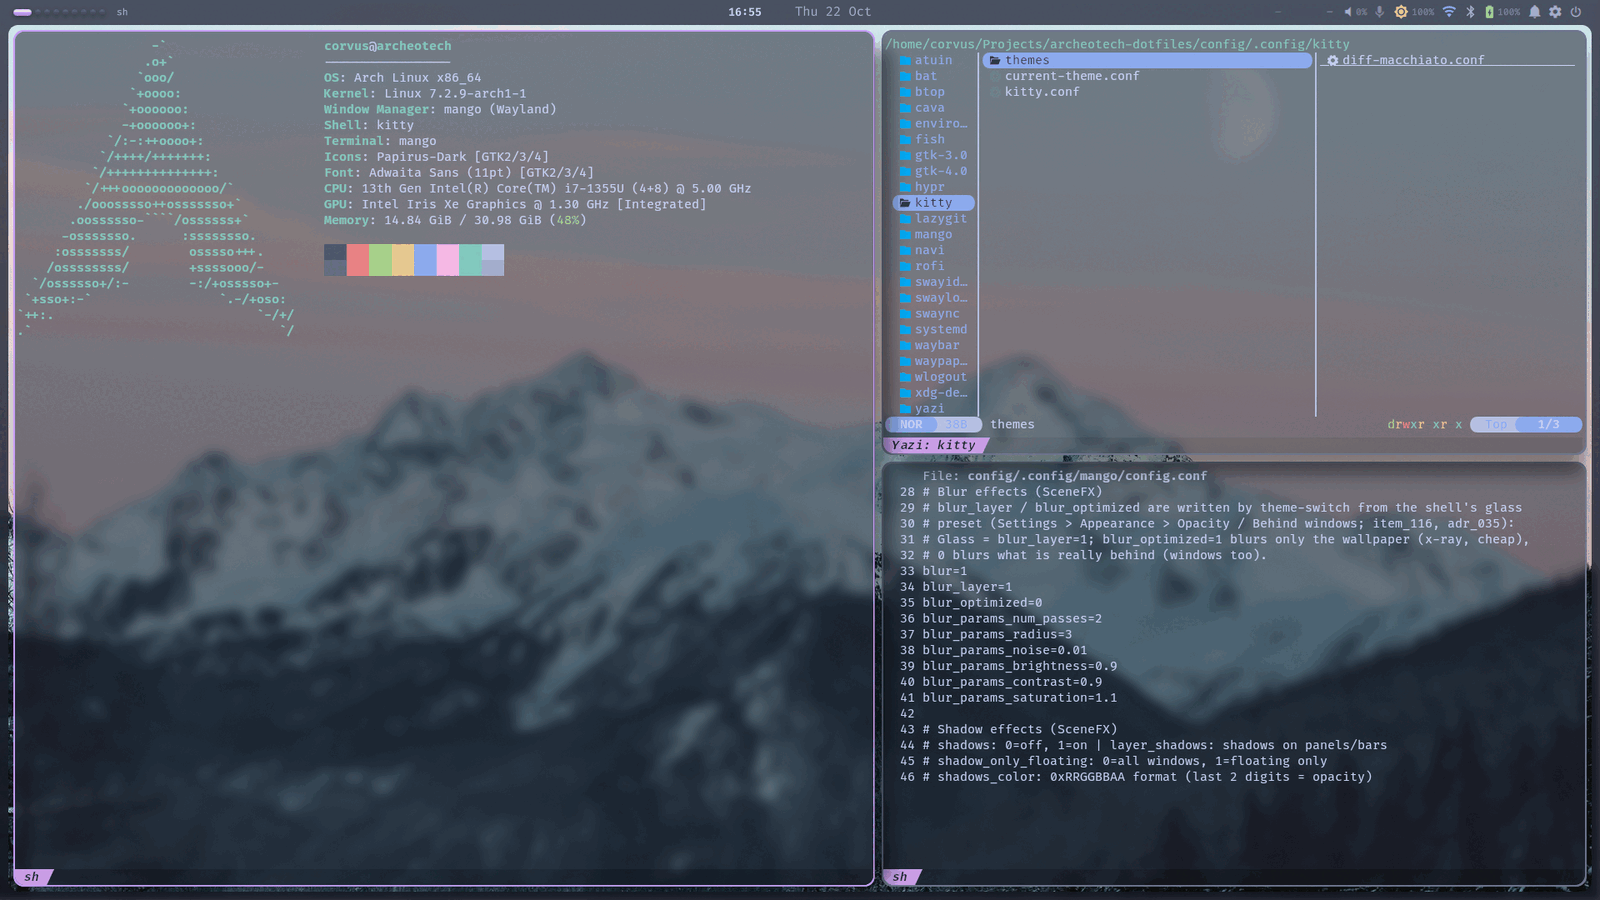
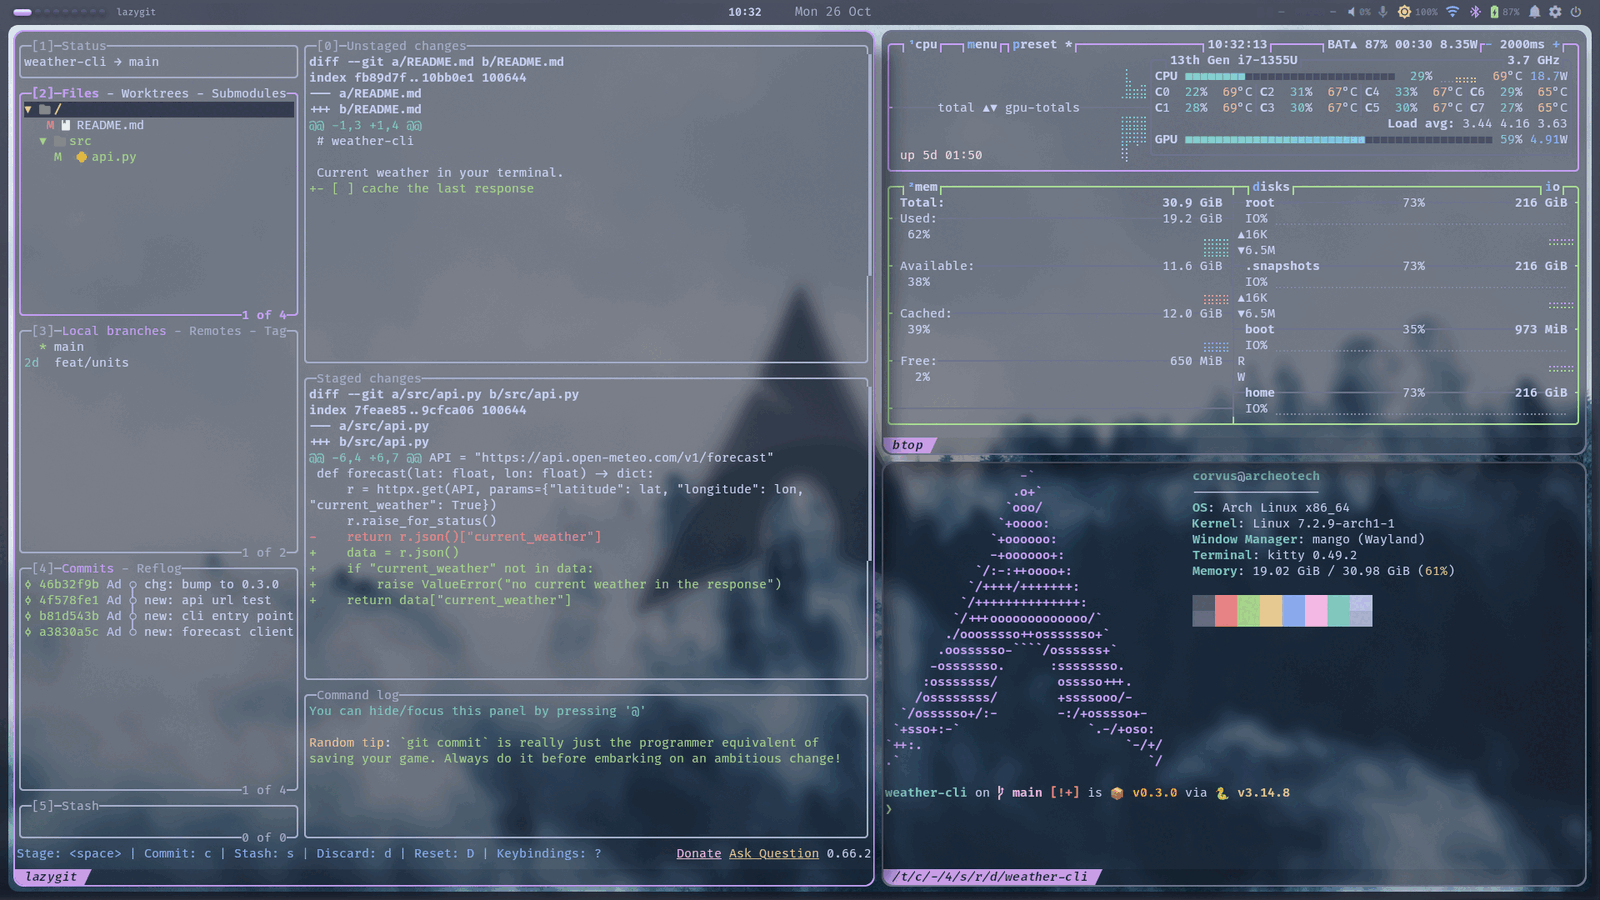
chg[MD/PNG]: README in the rice style; terminal workbench screenshot

diff --git a/README.md b/README.md
@@ -2,71 +2,44 @@
 
 <img src="docs/img/header.svg" alt="Archeotech dotfiles" width="620">
 
-### An Arch Linux desktop on MangoWC, in one repo. Clone it, run one script, get the same machine back.
+My Arch Linux + MangoWC setup, running the [Archeotech shell](https://github.com/Nicolas-Rigaudy/archeotech-shell).
 
-![Arch Linux](https://img.shields.io/badge/Arch%20Linux-1793d1?logo=archlinux&logoColor=white)
-![MangoWC and Hyprland](https://img.shields.io/badge/compositor-MangoWC%20%C2%B7%20Hyprland-7dc4e4)
-![GNU Stow](https://img.shields.io/badge/managed%20with-GNU%20Stow-c6a0f6)
-![Daily driver](https://img.shields.io/badge/status-daily%20driver-a6da95)
+[![Arch Linux](https://img.shields.io/badge/arch-linux-8aadf4?style=for-the-badge&logo=archlinux&logoColor=cad3f5&labelColor=24273a)](https://archlinux.org)
+[![MangoWC](https://img.shields.io/badge/wm-mangowc-7dc4e4?style=for-the-badge&labelColor=24273a)](https://github.com/DreamMaoMao/mangowc)
+[![GNU Stow](https://img.shields.io/badge/managed%20with-stow-a6da95?style=for-the-badge&labelColor=24273a)](https://www.gnu.org/software/stow/)
 
-<img src="docs/img/desktop.png" alt="MangoWC with kitty, yazi and fastfetch under the Archeotech shell" width="900">
-
-<sub>MangoWC scrolling layout with kitty, yazi and fastfetch, under the Archeotech shell. Isolated render.</sub>
+<img src="docs/img/desktop.png" alt="lazygit, btop and fish with fastfetch in kitty, tiled by MangoWC under the Archeotech shell" width="900">
 
 </div>
 
----
+> [!NOTE]
+> These are personal configs for one machine: an Intel laptop at 1920x1200 that docks at two desks, AZERTY built in, QWERTY at work.
+> Monitor names, paths and binds reflect that. The shell itself lives in [archeotech-shell](https://github.com/Nicolas-Rigaudy/archeotech-shell).
 
-These are the configs of a work laptop that docks at two desks. MangoWC tiles the windows,
-the [Archeotech shell](https://github.com/Nicolas-Rigaudy/archeotech-shell) draws the bar and panels,
-and kitty, fish, starship, rofi, GTK and the terminal tools share one Catppuccin theme.
-Every file lives in this repo. GNU Stow links it into `~/.config`. An edit is a git change.
-Hyprland stays configured as a fallback, selectable at the login screen.
+## What's inside
 
-## A day on this desktop
-
-- **Login.** SDDM offers MangoWC or Hyprland. MangoWC starts the shell, the wallpaper, clipboard history and the idle lock.
-- **Docking.** Plug in two monitors. A hotplug watcher applies the right layout, portrait screen included.
-- **Coding.** `Super+Ctrl+P` lists every git repo and opens VS Code and a terminal in the one you pick.
-- **Typing.** The laptop is AZERTY, the desk keyboard is QWERTY. `Alt+Shift` switches and the binds still work.
-- **Gaming.** One toggle turns blur, shadows and animations off for a full-screen game, and back on after.
-- **Updating.** Every pacman transaction takes a btrfs snapshot. A bad update rolls back from the boot menu.
-
-## Why it is built this way
-
-| Usual dotfiles pain | Here |
+| | Software |
 |---|---|
-| Copying files back and forth | **Stow symlinks**: the live config is the repo file |
-| A fresh install that takes a day | **`install.sh --profile full`**: packages, backup, deploy, checks |
-| A config change that breaks the session | **Isolated CI**: compositor configs are verified in a container |
-| Monitors in the wrong place after docking | **Hotplug layouts** per desk, with a wildcard for unknown screens |
-| An update that breaks boot | **Snapper + snap-pac + grub-btrfs** snapshots |
-| A theme that differs per app | **One theme switch** from the shell for kitty, rofi, fish, starship, GTK and MangoWC |
-
-## See it
-
-### Every bind, for the keyboard in use
-The shell's keyboard panel reads the MangoWC binds from this repo and labels them for the active layout.
-
-<img src="docs/img/keyboard.png" alt="The keyboard panel listing MangoWC binds" width="900">
-
-### One theme across the desktop
-The theme picked in the shell rewrites kitty, rofi, fish, starship, GTK, hyprlock and the MangoWC borders in this repo.
-
-<img src="docs/img/themes.png" alt="The shell dashboard in six themes" width="900">
-
-## What is configured
-
-| Area | Tools |
-|---|---|
-| Compositor | MangoWC (primary, scrolling layouts), Hyprland (fallback) |
-| Shell | [archeotech-shell](https://github.com/Nicolas-Rigaudy/archeotech-shell) on Quickshell; waybar, swaync and wlogout for Hyprland |
+| Compositor | [MangoWC](https://github.com/DreamMaoMao/mangowc) (scrolling layouts), Hyprland as a fallback at the login screen |
+| Shell | [archeotech-shell](https://github.com/Nicolas-Rigaudy/archeotech-shell) on Quickshell; waybar, swaync and wlogout under Hyprland |
 | Terminal | kitty, fish, starship, atuin, navi |
 | Terminal apps | yazi, lazygit, btop, bat, cava, zathura |
 | Desktop | rofi, swaylock, swayidle, GTK 3/4, xdg-desktop-portal |
-| System | SDDM, snapper, logid, systemd units (in `system/`) |
+| System | SDDM, snapper + snap-pac + grub-btrfs, logid, systemd units |
+| Theme | Catppuccin Macchiato by default; the shell's theme switch rewrites kitty, rofi, fish, starship, GTK and the MangoWC borders |
 
-## Get started
+A few things that make it mine:
+
+- **Docking.** A hotplug watcher applies the right monitor layout per desk, portrait screen included.
+- **Project jump.** `Super + Ctrl + P` lists every git repo and opens VS Code and a terminal in the one you pick.
+- **Two keyboards.** `Alt + Shift` switches AZERTY and QWERTY, and the binds stay on the same physical keys.
+- **Gaming mode.** `Super + Ctrl + G` turns blur, shadows and animations off, and back on.
+- **Snapshots.** Every pacman transaction takes a btrfs snapshot, bootable from GRUB.
+
+## Installation
+
+> [!WARNING]
+> Read the configs before you run this. `install.sh` backs up existing `~/.config` entries, but it replaces them.
 
 On an Arch install with `paru`:
 
@@ -77,55 +50,60 @@ cd ~/Projects/archeotech-dotfiles
 ./scripts/install.sh --profile full             # packages, then configs
 ```
 
-`install.sh` backs up any existing `~/.config` entry before it links the repo in.
-`--profile minimal` installs only the required packages. Then install the shell from
-[archeotech-shell](https://github.com/Nicolas-Rigaudy/archeotech-shell) with its own installer.
-
+`--profile minimal` installs only the required packages. Then install the shell with
+[its own installer](https://github.com/Nicolas-Rigaudy/archeotech-shell#installation).
 Starting from a blank disk? [`docs/INSTALLATION.md`](docs/INSTALLATION.md) covers the full Arch install
 with btrfs subvolumes, snapshots and both compositors.
 
-These are personal configs for one machine (an Intel laptop, 1920x1200, AZERTY). Monitor names, paths and binds
-reflect that setup. Read before you run.
+GNU Stow links `config/.config/*` into `~/.config`, so the live config is the repo file:
 
-<details>
-<summary><b>What is in the box</b></summary>
-
-| Path | What |
-|---|---|
-| `config/.config/` | the Stow package: every app config |
-| `scripts/install.sh`, `install-packages.sh` | deploy with Stow, install packages by profile |
-| `scripts/monitor-hotplug.sh`, `monitor-apply.sh` | layout per set of connected monitors |
-| `scripts/project-jump.sh` | rofi picker for git repos |
-| `scripts/gaming-mode.sh` | turn compositor effects off and on |
-| `scripts/setup-snapper.sh`, `update-system-configs.sh` | snapshots, and deploy of `system/` files |
-| `scripts/archeotech-live.sh` | pin the running shell to a commit while the dev checkout moves |
-| `system/etc/` | SDDM, snapper, logid and systemd files for `/etc` |
-| `packages/scenefx-coverage/` | PKGBUILD for a scenefx patch that smooths blurred panel edges |
-| `ci/` | container checks for the compositor configs |
-| `wallpapers/` | wallpapers with their [credits](wallpapers/CREDITS.md) |
-| `logics/` | planning for this repo and the shell |
-
-</details>
-
-<details>
-<summary><b>Day-to-day use</b></summary>
-
-- Edit `~/.config/<app>/...` as usual. It is the repo file.
 - Add an app: create `config/.config/<app>/`, add it to `CONFIGS` in `scripts/install.sh`, run `stow -R config`.
 - Remove the links: `./scripts/uninstall.sh`. The repo stays intact.
-- Reload MangoWC and the shell: `Super+Shift+R`.
+
+<details>
+<summary><b>Layout</b></summary>
+
+```
+config/.config/   the Stow package: every app config
+scripts/          install, monitor hotplug, project jump, gaming mode, snapper setup
+system/etc/       SDDM, snapper, logid and systemd files for /etc
+packages/         PKGBUILD for a scenefx patch that smooths blurred panel edges
+ci/               container checks for the compositor configs
+wallpapers/       wallpapers and their credits
+docs/             installation, keybinds, packages, tools
+```
 
 </details>
 
-## Documentation
+## Keybinds
+
+The main ones. Full lists: [MangoWC](docs/KEYBINDS-MANGO.md), [Hyprland](docs/KEYBINDS.md).
+In the session, `Super + K` shows them all in the shell's keybinds panel.
+
+| Keybind | Action |
+|---|---|
+| `Super + Q` | Terminal (kitty) |
+| `Super + R` | Launcher |
+| `Super + Ctrl + P` | Project jump |
+| `Super + K` | Keybinds panel |
+| `Super + ,` | Settings |
+| `Super + W` | Wallpaper picker |
+| `Super + Space` | Scroller layout |
+| `Super + Shift + T` | Layout picker |
+| `Super + Ctrl + G` | Gaming mode |
+| `Super + Shift + R` | Reload MangoWC and the shell |
+
+## Docs
 
 - [Installation](docs/INSTALLATION.md): from a blank disk to a running desktop
-- [MangoWC keybinds](docs/KEYBINDS-MANGO.md) and [Hyprland keybinds](docs/KEYBINDS.md)
-- [US International layout](docs/KEYBOARD-US-INTL.md)
 - [Packages](docs/PACKAGES.md): what is installed and why
 - [Tools](docs/TOOLS.md): configuration and usage of each tool
+- [US International layout](docs/KEYBOARD-US-INTL.md)
 
-## License
+## Credits
+
+- [MangoWC](https://github.com/DreamMaoMao/mangowc) and [Quickshell](https://quickshell.org).
+- [end-4](https://github.com/end-4/dots-hyprland), [HyDE](https://github.com/HyDE-Project/HyDE), [JaKooLit](https://github.com/JaKooLit/Hyprland-Dots) and [ML4W](https://github.com/mylinuxforwork/dotfiles) for ideas on structure and install flow.
+- [Catppuccin](https://github.com/catppuccin) for the palettes. Wallpapers belong to their authors, see [`wallpapers/CREDITS.md`](wallpapers/CREDITS.md).
 
 Personal configs, shared as they are. Take anything useful.
-Wallpapers belong to their authors, see [`wallpapers/CREDITS.md`](wallpapers/CREDITS.md).
